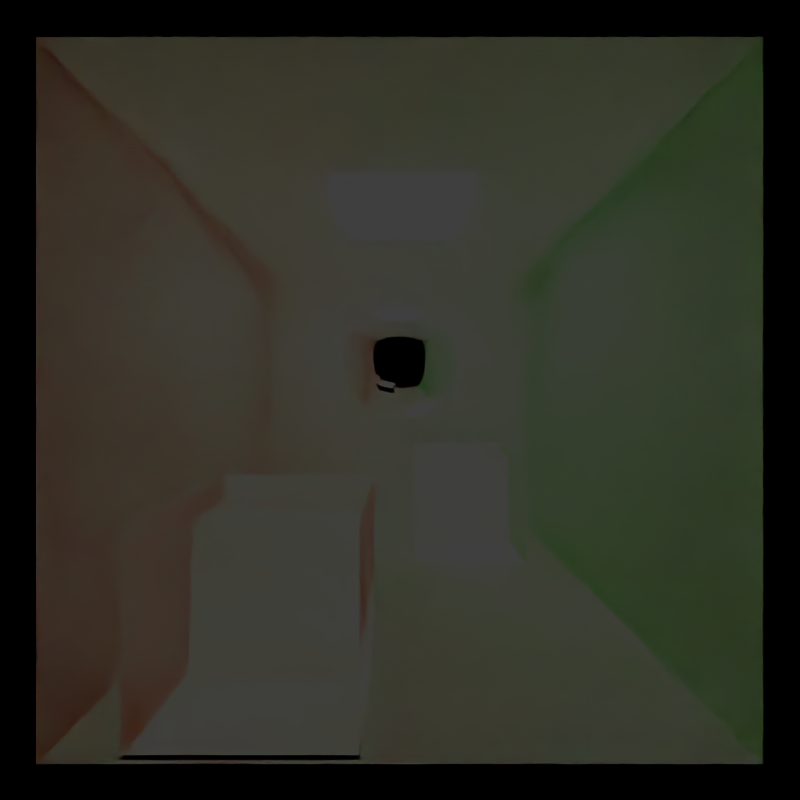
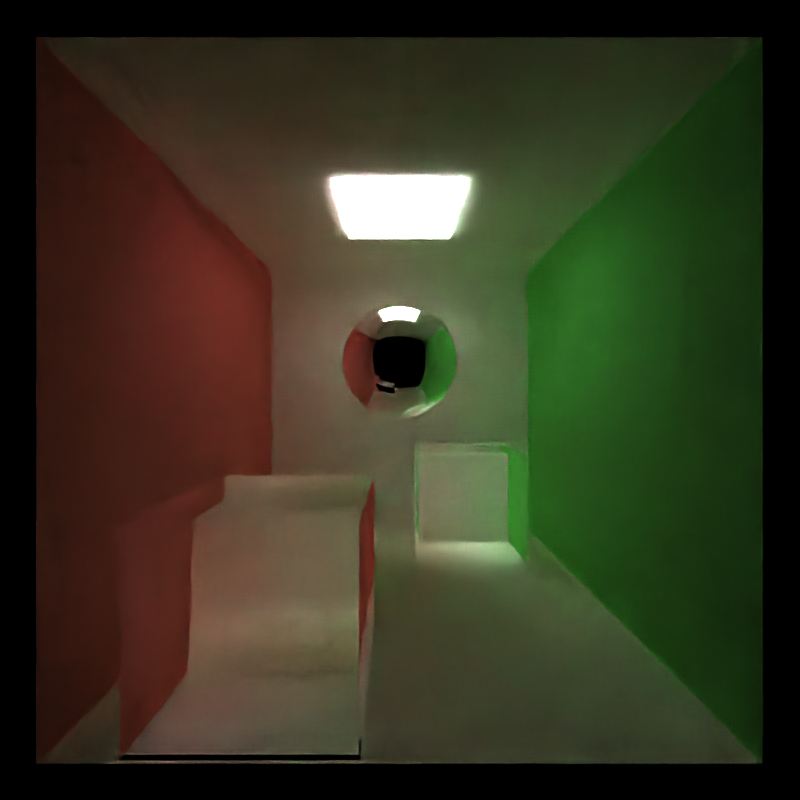
Albedos and Normals

diff --git a/src/main.cpp b/src/main.cpp
@@ -8,7 +8,7 @@
 #include <vector>
 #include <array>
 
-#define DENOISE 1
+#define DENOISE 0
 static std::string startTimeString;
 
 // For camera controls
@@ -142,21 +142,34 @@ void denoise() {
 	oidn::DeviceRef device = oidn::newDevice();
 	device.commit();
 	oidn::ImageBuffer im(width, height, 3);
+	oidn::ImageBuffer normal(width, height, 3);
+	oidn::ImageBuffer albedo(width, height, 3);
 	float samples = iteration;
 	image img(width, height);
 	for (int x = 0; x < width; x++) {
 		for (int y = 0; y < height; y++) {
 			int index = x + (y * width);
 			glm::vec3 pix = renderState->image[index];
+			glm::vec3 normal_in = renderState->normals[index];
+			glm::vec3 albedos_in = renderState->albedos[index];
 			im[((height - 1 - y)*width + x) * 3 + 0] = pix.x;
 			im[((height - 1 - y)*width + x) * 3 + 1] = pix.y;
 			im[((height - 1 - y)*width + x) * 3 + 2] = pix.z;
+			normal[((height - 1 - y)*width + x) * 3 + 0] = normal_in.x;
+			normal[((height - 1 - y)*width + x) * 3 + 1] = normal_in.y;
+			normal[((height - 1 - y)*width + x) * 3 + 2] = normal_in.z;
+			albedo[((height - 1 - y)*width + x) * 3 + 0] = albedos_in.x;
+			albedo[((height - 1 - y)*width + x) * 3 + 1] = albedos_in.y;
+			albedo[((height - 1 - y)*width + x) * 3 + 2] = albedos_in.z;
+
 		}
 	}
 	oidn::ImageBuffer output(width, height, 3);
 	
 	oidn::FilterRef filter = device.newFilter("RT");
 	filter.setImage("color", im.getData(), oidn::Format::Float3, width, height);
+	filter.setImage("albedo", albedo.getData(), oidn::Format::Float3, width, height);
+	filter.setImage("normal", normal.getData(), oidn::Format::Float3, width, height);
 	filter.setImage("output", output.getData(), oidn::Format::Float3, width, height);
 	filter.set("hdr", true);
 	filter.commit();
@@ -242,7 +255,7 @@ void runCuda() {
         // execute the kernel
         int frame = 0;
 		auto start = std::chrono::high_resolution_clock::now();
-
+		
         pathtrace(pbo_dptr, frame, iteration);
         // unmap buffer object
         cudaGLUnmapBufferObject(pbo);

diff --git a/src/scene.cpp b/src/scene.cpp
@@ -146,8 +146,11 @@ int Scene::loadCamera() {
     //set up render camera stuff
     int arraylen = camera.resolution.x * camera.resolution.y;
     state.image.resize(arraylen);
+	state.albedos.resize(arraylen);
+	state.normals.resize(arraylen);
     std::fill(state.image.begin(), state.image.end(), glm::vec3());
-
+	std::fill(state.albedos.begin(), state.albedos.end(), glm::vec3());
+	std::fill(state.normals.begin(), state.normals.end(), glm::vec3());
     cout << "Loaded camera!" << endl;
     return 1;
 }

diff --git a/src/sceneStructs.h b/src/sceneStructs.h
@@ -58,6 +58,8 @@ struct RenderState {
     int traceDepth;
     std::vector<glm::vec3> image;
     std::string imageName;
+	std::vector<glm::vec3> normals;
+	std::vector<glm::vec3> albedos;
 };
 
 struct PathSegment {

diff --git a/README.md b/README.md
@@ -93,11 +93,18 @@ Blooper 1       |  Blooper 2 | Blooper 3 | Blooper 4
 
 Finally after fixing my issues I was able to get it working:
 
+
+
+The library expects the pixel values to be in little endian format according to the documentation, so I had written a ReverseFloat function to convert big-endian to little endian, but doing so resulted in the blooper reel, when I did not use that function, I got this result for output after 5 iterations.
 Original      |  Denoised
 :-------------------------:|:-------------------------:
 ![](img/denoise_orig.png) | ![](img/denoise_decent.png)
 
-The library expects the pixel values to be in little endian format according to the documentation, so I had written a ReverseFloat function to convert big-endian to little endian, but doing so resulted in the blooper reel, when I did not use that function, I got this result for output after 5 iterations.
+Then I also passed albedos and normals buffers to the library, the results after doing that were:
+
+Original      |  Denoised
+:-------------------------:|:-------------------------:
+![](img/original_albedo_nromal.png) | ![](img/denoise_albedo_nromal.png) 
 
 It was a hard task to set it up and build it. I have listed down the steps I had to take here and I think this can serve as an easy documentation of how to set it up and get it running because the existing one is simply great!!
 
